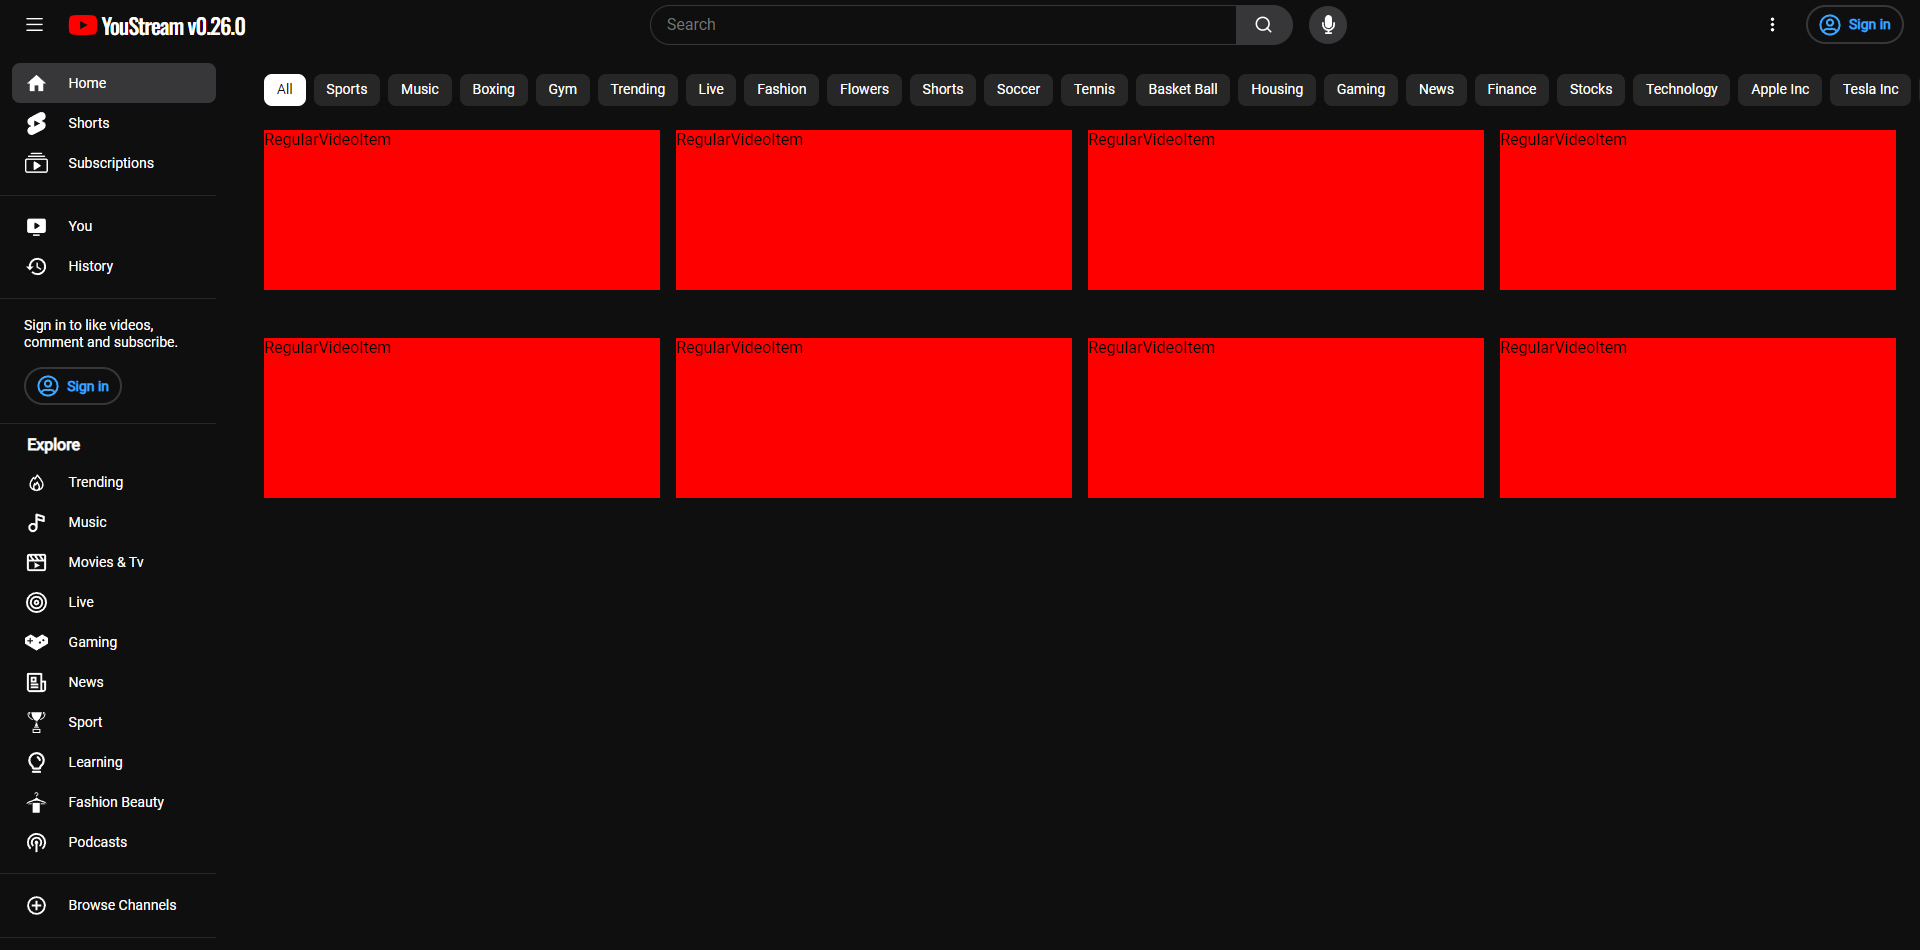
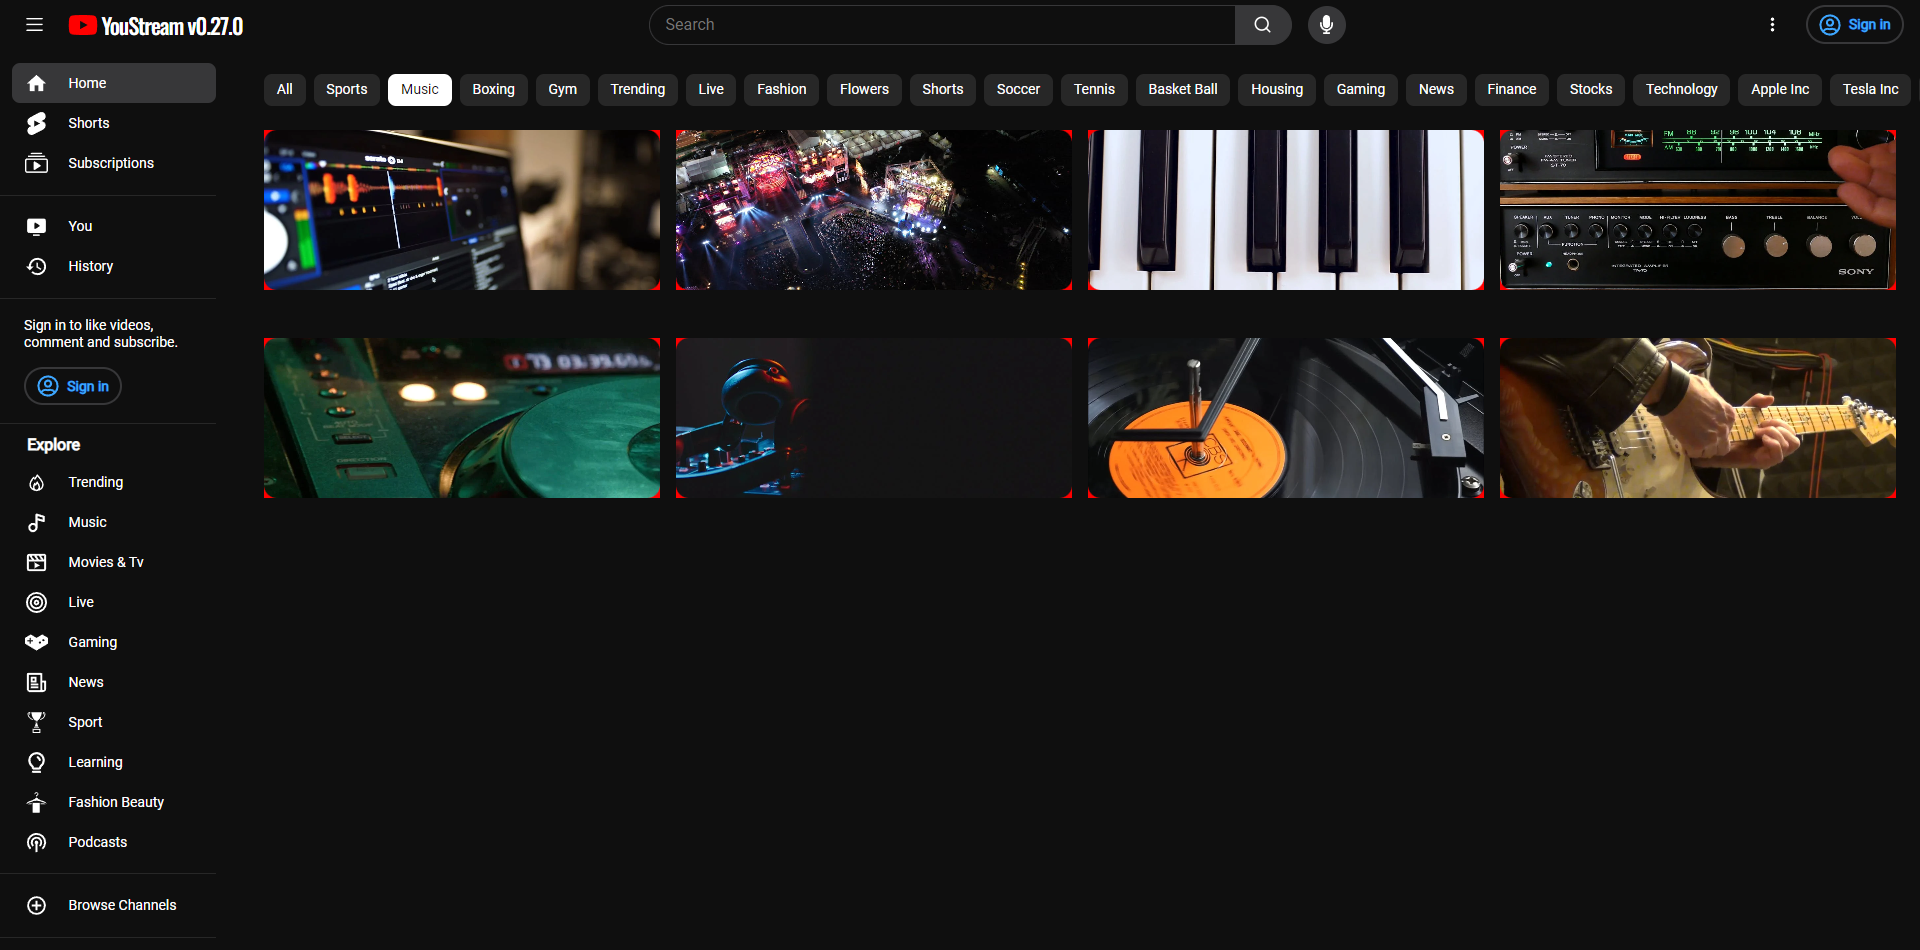
YOU STREAM 0.27.0
Add React Player Package
Update README.md
Update package.json
Update package-lock.json
Update RegularVideoItem.tsx
Update RegularVideoItem.styles.ts

diff --git a/src/components/regularVideoItem/RegularVideoItem.tsx b/src/components/regularVideoItem/RegularVideoItem.tsx
@@ -1,13 +1,43 @@
-import React from "react";
-import { StyledRegularVideoItem } from "./RegularVideoItem.styles";
+import React, { useState } from "react";
+import {
+  RegularVideoThumbnail,
+  StyledRegularVideoItem,
+} from "./RegularVideoItem.styles";
 import { Video } from "pexels";
+import ReactPlayer from "react-player";
+import { useAppContext } from "../../context/App.context";
 
 interface IRegularVideoItemProps {
   video: Video;
 }
 
-const RegularVideoItem = (video: IRegularVideoItemProps) => {
-  return <StyledRegularVideoItem>RegularVideoItem</StyledRegularVideoItem>;
+const RegularVideoItem = ({ video }: IRegularVideoItemProps) => {
+  const [playTrailer, setPlayTrailer] = useState(false);
+  const { isMenuSmall } = useAppContext();
+
+  return (
+    <StyledRegularVideoItem
+      onMouseOver={() => setPlayTrailer(true)}
+      onMouseOut={() => setPlayTrailer(false)}
+    >
+      <RegularVideoThumbnail $isMenuSmall={isMenuSmall}>
+        {playTrailer ? (
+          <ReactPlayer
+            width="100%"
+            height="100%"
+            controls={false}
+            volume={1}
+            muted={false}
+            style={{ height: "100%", width: "100%" }}
+            playing={playTrailer}
+            url={video.video_files[0].link}
+          />
+        ) : (
+          <img src={video.image} alt="thumbnail" />
+        )}
+      </RegularVideoThumbnail>
+    </StyledRegularVideoItem>
+  );
 };
 
 export default RegularVideoItem;

diff --git a/src/components/regularVideoItem/RegularVideoItem.styles.ts b/src/components/regularVideoItem/RegularVideoItem.styles.ts
@@ -1,4 +1,4 @@
-import styled from "styled-components";
+import styled, { css } from "styled-components";
 
 export const StyledRegularVideoItem = styled.div`
   width: 100%;
@@ -11,4 +11,25 @@ export const StyledRegularVideoItem = styled.div`
   &:hover {
     cursor: pointer;
   }
+`;
+
+export const RegularVideoThumbnail = styled.div<{ $isMenuSmall?: boolean }>`
+  width: 100%;
+  height: 12.2rem;
+  border-radius: 0.8rem;
+  position: relative;
+  overflow: hidden;
+
+  img {
+    width: 100%;
+    height: 100%;
+    border-radius: inherit;
+    object-fit: cover;
+  }
+
+  ${({ $isMenuSmall }) =>
+    $isMenuSmall &&
+    css`
+      height: 13.7rem;
+    `}
 `;

diff --git a/src/components/header/Header.tsx b/src/components/header/Header.tsx
@@ -48,7 +48,7 @@ const Header = () => {
         </Icon>
         <LogoSection to="/">
           <FaYoutube color="#FF0000" size={30} />
-          <Text className="logo">YouStream v0.26.0</Text>
+          <Text className="logo">YouStream v0.27.0</Text>
         </LogoSection>
       </LeftSection>
       <SearchSection>

diff --git a/README.md b/README.md
@@ -10,10 +10,11 @@
 
 - **STACK :**
 
-  - **YOU STREAM** : `0.26.0`
+  - **YOU STREAM** : `0.27.0`
   - **REACT** : `18.2.0`
   - **PEXELS** : `1.4.0`
   - **REACT ICONS** : `5.0.1`
+  - **REACT PLAYER** : `2.16.0`
   - **REACT TOOLTIP** : `5.26.3`
   - **REACT ROUTER DOM** : `6.22.3`
   - **STYLED COMPONENTS** : `6.1.8`
